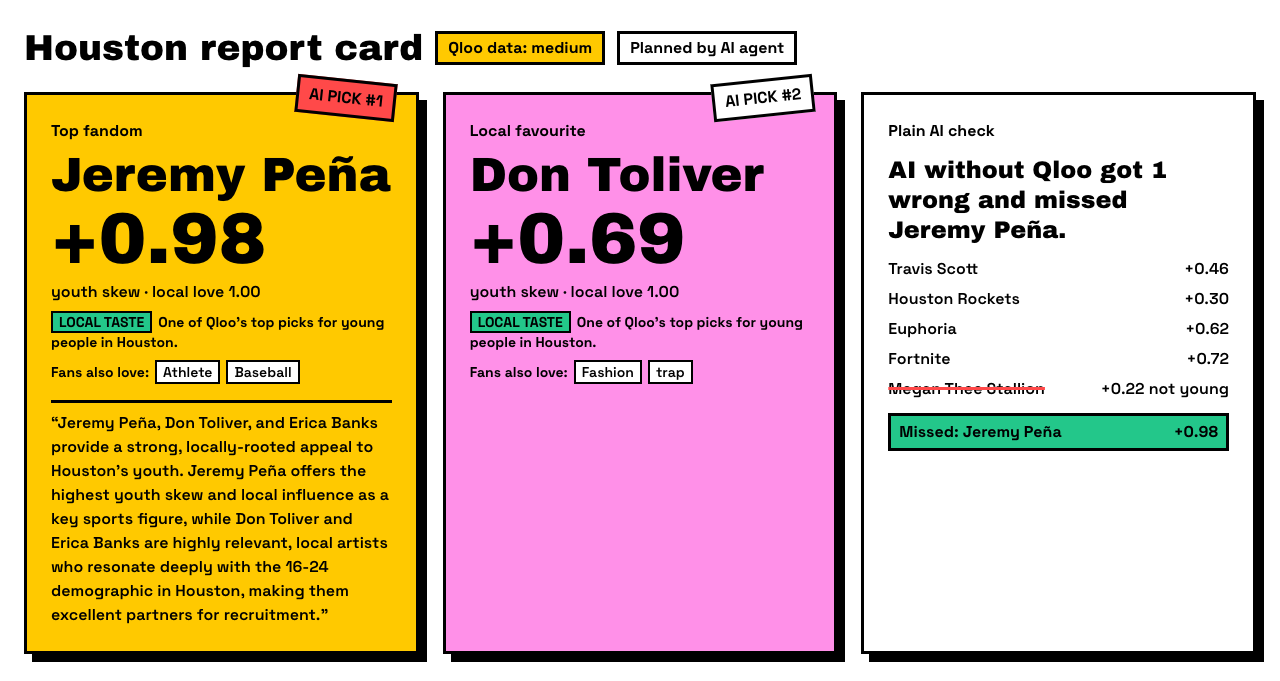
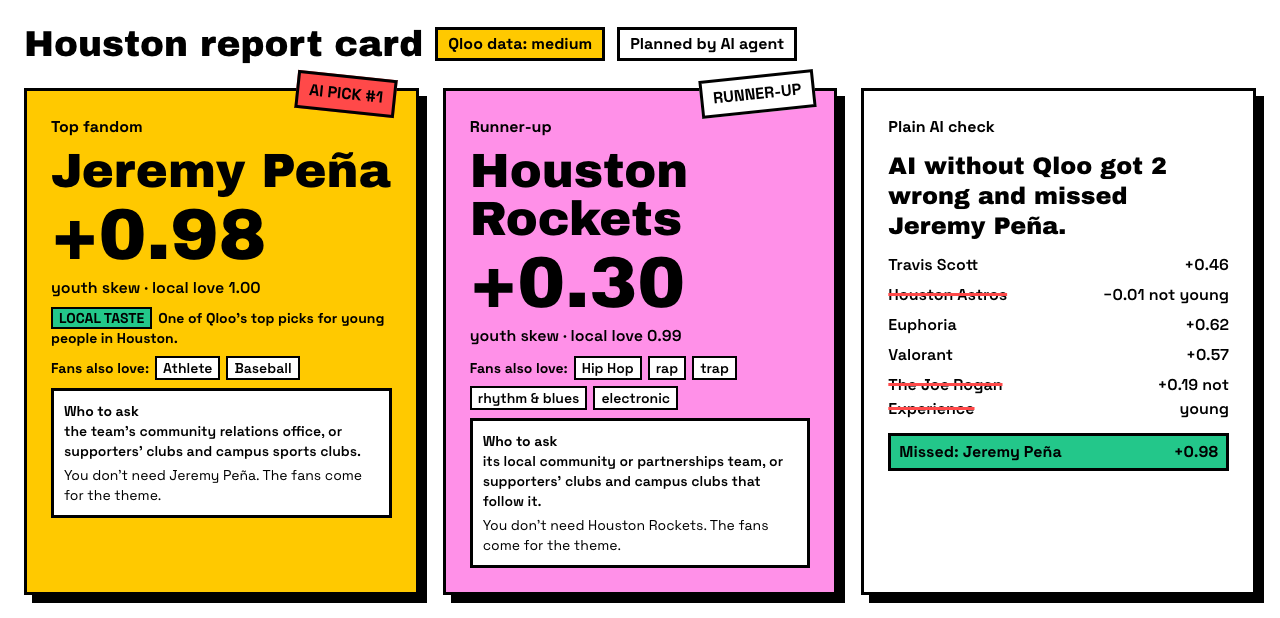
fix: skip kids', medical and appointment-only venues; re-check mistyped plain-AI picks
A live Houston run listed Chuck E. Cheese (genre "pizza", kids only in its
tags), an orthopedic hospital and a "By Appointment Only" cafe for flyers.
Plain AI's "Houston Astros", typed as a videogame, matched "Astro's Ace XR"
and showed no Qloo data; misses are now retried untyped.

New Houston example (Jeremy Peña leads; the fit check holds back Travis
Scott), with screenshots and docs to match.

diff --git a/src/lib/engine/venues.ts b/src/lib/engine/venues.ts
@@ -7,6 +7,9 @@ const word = (alts: string) => new RegExp(`(^|_)(${alts})($|_)`);
 const UNSUITABLE = word("shooting_range|gun|gun_shop|firearms?|cigar|tobacco|smoke_shop|vape|vape_shop|hookah|cannabis|dispensary|marijuana|tattoo|piercing|casino|gambling|betting|bookmaker|adult_entertainment|strip_club|pawn|liquor|beer_store|wine_store|funeral|funeral_home|cemetery");
 const PRIVATE = word("hotel|motel|apartment|condominium|residential|trailer_park|mobile_home_park|rv_park");
 const CHILDREN = word("elementary_school|middle_school|primary_school|preschool|kindergarten|day_care_center|daycare|child_care|child_care_agency|nursery_school|nursery|children's|childrens|children|kids?|playground"); // too young to donate (live: a children's museum ranked as a host)
+const KIDS_TAG = /^(child(ren)?'?s (amusement center|museum|play ?area|theat(er|re))|(indoor )?playground)$/i; // Qloo files Chuck E. Cheese under "pizza" (live Houston run)
+const MEDICAL = word("hospital|clinic|medical_center|medical_clinic|urgent_care|emergency_room"); // patients, not a fan crowd (live: an orthopedic hospital listed for flyers)
+const BY_APPOINTMENT = /\bby appointment only\b/i; // by name (live: "Honey Art Cafe [By Appointment Only - Book Online]")
 const NOT_HOST = word("dog_park");
 const PERSONAL_CARE = word("spa|day_spa|med_spa|nail_salon|massage|skin_care|waxing"); // appointment-only; barbershops stay, they're where people talk
 const IN_HOTEL = /\b(hotel|resort|motel)\b/i; // by name: Qloo can leave a hotel spa with no genre (live Houston run)
@@ -22,8 +25,10 @@ export function classifyVenue(p: QlooPlace, date?: string): { role: "host" | "pr
   const genre = (p.genre ?? "").toLowerCase();
   if (UNSUITABLE.test(genre)) return { role: "skip", reasons: ["Not suitable for a youth health campaign"] };
   if (PRIVATE.test(genre)) return { role: "skip", reasons: ["Not a public hangout"] };
-  if (CHILDREN.test(genre)) return { role: "skip", reasons: ["Venue for young children"] };
+  if (CHILDREN.test(genre) || p.tags.some((t) => KIDS_TAG.test(t.trim()))) return { role: "skip", reasons: ["Venue for young children"] };
+  if (MEDICAL.test(genre)) return { role: "skip", reasons: ["Hospital or clinic"] };
   if (IN_HOTEL.test(p.name)) return { role: "skip", reasons: ["Inside a hotel or resort"] };
+  if (BY_APPOINTMENT.test(p.name)) return { role: "skip", reasons: ["Appointment only"] };
   if (PERSONAL_CARE.test(genre) || (!HOST.test(genre) && p.tags.some((t) => SPA_TAG.test(t.trim())))) return { role: "skip", reasons: ["Appointment-only personal care"] };
   const reasons: string[] = [];
   if (p.tags.some((t) => /18\s*24/.test(t))) reasons.push("Young crowd (18–24)");

diff --git a/tests/lib/engine/venues.test.ts b/tests/lib/engine/venues.test.ts
@@ -28,6 +28,19 @@ describe("classifyVenue", () => {
     expect(classifyVenue(P({ name: "Glow Day Spa", tags: ["Spa", "Appointments recommended"] }))).toEqual({ role: "skip", reasons: ["Appointment-only personal care"] });
     expect(classifyVenue(P({ name: "Polished", genre: "nail_salon" })).role).toBe("skip");
     expect(classifyVenue(P({ name: "Downtown YMCA", genre: "gym", tags: ["Spa", "Pool"] })).role).toBe("host"); // a gym with a spa still hosts
+    // Live Houston run: an art cafe named "[By Appointment Only - Book Online]" was listed for flyers
+    expect(classifyVenue(P({ name: "Honey Art Cafe [By Appointment Only - Book Online]", genre: "art_cafe", tags: ["18 24"] }))).toEqual({ role: "skip", reasons: ["Appointment only"] });
+  });
+  it("skips kids' venues Qloo files under another genre", () => {
+    // Live Houston run: Chuck E. Cheese has genre "pizza" and only a tag says it is for children
+    const v = classifyVenue(P({ name: "Chuck E. Cheese", genre: "pizza", tags: ["Family entertainment", "Childrens amusement center", "18 24"] }));
+    expect(v).toEqual({ role: "skip", reasons: ["Venue for young children"] });
+    expect(classifyVenue(P({ name: "Joe's Pizza", genre: "pizza", tags: ["Good for kids"] })).role).toBe("promote"); // family-friendly is fine
+  });
+  it("skips hospitals and clinics: patients, not a fan crowd", () => {
+    // Live Houston run: Texas Orthopedic Hospital (genre orthopedic_clinic) was listed for flyers
+    for (const g of ["orthopedic_clinic", "hospital", "general_hospital", "medical_center", "urgent_care_center", "dental_clinic"])
+      expect(classifyVenue(P({ genre: g })), g).toEqual({ role: "skip", reasons: ["Hospital or clinic"] });
   });
   it("flags a venue that is closed on the drive day", () => {
     const v = classifyVenue(P({ genre: "gym", hours: { saturday: [{ opens: null, closes: null, closed: true }] } }), "2026-11-14");

diff --git a/src/lib/agent/plainAi.ts b/src/lib/agent/plainAi.ts
@@ -14,6 +14,18 @@ export async function runPlainAi(a: { input: PlanInput; city: CityInfo; tools: T
   const picks = r.output.picks.filter((p) => p.name.trim()).slice(0, 5).map((p) => ({ ...p, name: clamp(p.name, 60), why: clamp(p.why, 200) }));
   const resolved = await a.tools.findAndConfirm(picks.map((p) => ({ name: p.name, type: p.type })));
   const ages = await a.tools.fanAge(resolved.filter((x) => x.status === "ok").map((x) => x.entityId!));
+  // The model can give a pick the wrong type (live: the Houston Astros as a videogame matched "Astro's Ace XR"): retry those untyped, so plain AI is judged on what it meant
+  const missed = resolved.map((r, i) => i).filter((i) => resolved[i].status !== "ok" || !ages.get(resolved[i].entityId!));
+  const { refs } = await a.tools.typeNames(missed.map((i) => picks[i].name), `Re-checking ${missed.length === 1 ? "1 plain-AI pick" : `${missed.length} plain-AI picks`} Qloo couldn't match as typed`);
+  const retyped = refs.filter((r) => r.type !== picks.find((p) => p.name === r.name)?.type);
+  if (retyped.length) {
+    const again = await a.tools.findAndConfirm(retyped);
+    const moreAges = await a.tools.fanAge(again.filter((x) => x.status === "ok").map((x) => x.entityId!));
+    again.forEach((r) => {
+      const i = missed.find((j) => picks[j].name === r.name);
+      if (i !== undefined && r.status === "ok" && moreAges.get(r.entityId!)) { resolved[i] = r; ages.set(r.entityId!, moreAges.get(r.entityId!)!); }
+    });
+  }
   return picks.map((p, i) => {
     const res = resolved[i];
     const d = res.status === "ok" ? ages.get(res.entityId!) : null;

diff --git a/src/lib/engine/tools.ts b/src/lib/engine/tools.ts
@@ -71,7 +71,7 @@ export function createTools(api: QlooApi, emit: (e: ToolEvent) => void = () => {
   }
 
   async function findAndConfirm(refs: NameRef[]): Promise<Resolved[]> {
-    emit({ tool: "find_and_confirm", message: `Looking up ${refs.length} names in Qloo and confirming each match` });
+    emit({ tool: "find_and_confirm", message: `Looking up ${refs.length === 1 ? "1 name" : `${refs.length} names`} in Qloo and confirming each match` });
     return Promise.all(refs.map(resolveOne));
   }
 
@@ -242,9 +242,9 @@ export function createTools(api: QlooApi, emit: (e: ToolEvent) => void = () => {
       ...(e.birthPlace && sameCity(e.birthPlace, city) ? { hometown: e.birthPlace.split(",")[0].trim() } : {}) }));
   }
 
-  async function typeNames(names: string[]): Promise<{ refs: NameRef[]; unresolved: string[] }> {
+  async function typeNames(names: string[], message = `Identifying ${names.length} partner names you entered`): Promise<{ refs: NameRef[]; unresolved: string[] }> {
     if (!names.length) return { refs: [], unresolved: [] };
-    emit({ tool: "find_and_confirm", message: `Identifying ${names.length} partner names you entered` });
+    emit({ tool: "find_and_confirm", message });
     const typed = await Promise.all(names.map(async (n) => {
       const hits = (await api.search(n, undefined, 8).catch(orSoft([]))).filter((h) => PRIORITY.includes(h.type));
       const best = hits.map((h) => ({ h, m: matchConfidence(n, h.name) })).filter((x) => x.m >= MATCH_OK)

diff --git a/tests/lib/client/view.test.ts b/tests/lib/client/view.test.ts
@@ -50,7 +50,9 @@ describe("view helpers", () => {
     expect(whoToAsk({ ...P("Don Toliver", 0.69), type: "artist" }).ask).toEqual(["local fan clubs and street teams", "campus music and radio societies"]);
     expect(whoToAsk({ ...P("Euphoria", 0.62), type: "tv_show" }).ask).toEqual(["Euphoria fan communities on Reddit and Discord", "campus film and TV societies"]);
     expect(whoToAsk(P("Fortnite", 0.72)).ask).toEqual(["campus esports and gaming societies", "local gaming cafés and game stores"]);
-    expect(whoToAsk({ ...P("Glossier", 0.5), type: "brand" }).ask).toEqual(["the brand’s local store or community team", "campus clubs whose members wear or use it"]);
+    expect(whoToAsk({ ...P("Glossier", 0.5), type: "brand" }).ask).toEqual(["its local community or partnerships team", "supporters’ clubs and campus clubs that follow it"]);
+    // Live Houston run: Qloo files the Rockets as a brand whose fans also love hip hop, so the ask must still fit a team
+    expect(whoToAsk({ ...P("Houston Rockets", 0.3), type: "brand", fanTags: ["Hip Hop", "rap"] }).ask).not.toContain("the brand’s local store or community team");
     expect(whoToAsk({ ...P("Some Creator", 0.8), type: "person" }).ask).toEqual(["Some Creator fan communities on Reddit and Discord", "campus clubs that share the interest"]);
   });
 

diff --git a/tests/helpers/fakeApi.ts b/tests/helpers/fakeApi.ts
@@ -5,6 +5,7 @@ import type { Demographics, EntityType, HeatCell, QlooPlace } from "@/lib/qloo/t
 
 export type FakeData = {
   alias?: Record<string, string>; notFound?: string[]; types?: Record<string, EntityType>;
+  wrongTypeHit?: Record<string, string>; // what a search with the wrong type finds (live: "Houston Astros" as a videogame matched "Astro's Ace XR")
   demo?: Record<string, Demographics | "invalid">; cityFit?: Record<string, number>;
   heat?: Record<string, HeatCell[]>; places?: QlooPlace[]; hostPlaces?: QlooPlace[]; badCities?: string[]; authFail?: boolean;
   fanTags?: Record<string, string[]>; rawTags?: Record<string, { name: string; subtype: string }[]>; trend?: Record<string, { date: string; percentile: number }[]>; tagLookups?: string[];
@@ -22,6 +23,8 @@ export function fakeApi(d: FakeData): QlooApi {
     async search(query, type) {
       if (d.authFail) throw new QlooError("auth", 401, "bad key");
       if (d.notFound?.includes(query)) return [];
+      const hit = d.wrongTypeHit?.[query];
+      if (hit && type && type !== d.types?.[query]) return [{ entityId: id(hit), name: hit, type, popularity: 0.2 }];
       return [{ entityId: id(query), name: d.alias?.[query] ?? query, type: type ?? d.types?.[query] ?? "artist", popularity: 0.9 }];
     },
     async demographics(entityId) {

diff --git a/tests/lib/agent/run.test.ts b/tests/lib/agent/run.test.ts
@@ -56,6 +56,12 @@ describe("runPlan", () => {
     expect(plan?.engine).toBe("autopilot");
     expect(plan?.plainAi?.[0].name).toBe("Sabrina Carpenter");
   });
+  it("re-checks a plain-AI pick the model gave the wrong type", async () => {
+    // Live Houston run: plain AI typed the Astros as a videogame, matched "Astro's Ace XR" and reported no Qloo data
+    const model = new MockLanguageModelV4({ doGenerate: async () => text(JSON.stringify({ picks: [{ name: "Houston Astros", type: "videogame", why: "Local pride" }] })) as never });
+    const { plan } = await run({ ...data, types: { "Houston Astros": "brand" }, wrongTypeHit: { "Houston Astros": "Astro's Ace XR" } }, model);
+    expect(plan?.plainAi?.[0]).toMatchObject({ name: "Houston Astros", matchedName: "Houston Astros", youthSkew: 0.8 });
+  });
   it("words the skipped-names limit for one and for many", () => {
     expect(skippedNote(1)).toBe("1 name was skipped (not found, wrong match, or no audience data yet).");
     expect(skippedNote(3)).toBe("3 names were skipped (not found, wrong match, or no audience data yet).");

diff --git a/src/lib/client/view.ts b/src/lib/client/view.ts
@@ -46,7 +46,7 @@ export function whoToAsk(p: Partner): { ask: [string, string]; note: string } {
   const ask: [string, string] = sport ? ["the team’s community relations office", "supporters’ clubs and campus sports clubs"]
     : p.type === "artist" ? ["local fan clubs and street teams", "campus music and radio societies"]
     : p.type === "videogame" ? ["campus esports and gaming societies", "local gaming cafés and game stores"]
-    : p.type === "brand" ? ["the brand’s local store or community team", "campus clubs whose members wear or use it"]
+    : p.type === "brand" ? ["its local community or partnerships team", "supporters’ clubs and campus clubs that follow it"] // Qloo files teams as brands too
     : p.type === "person" || p.type === "podcast" ? [online, "campus clubs that share the interest"]
     : [online, p.type === "book" ? "campus book and writing societies" : "campus film and TV societies"];
   return { ask, note };

diff --git a/src/app/judges/page.tsx b/src/app/judges/page.tsx
@@ -10,7 +10,7 @@ const pct = (n: number, d: number) => `${Math.round((100 * n) / Math.max(1, d))}
 const minus = (x: number) => x.toFixed(2).replace("-", "−");
 
 const STEPS: [string, string, string][] = [
-  ["Watch a recorded run", "The agent's real work replays in about 8 seconds: Houston leads with Astros star Jeremy Peña and rapper Don Toliver.", "/plan?example=houston"],
+  ["Watch a recorded run", "The agent's real work replays in about 8 seconds: Houston leads with Astros star Jeremy Peña, and the fit check holds back Travis Scott.", "/plan?example=houston"],
   ["Plan any city live", "Type a city and press Plan my drives. The agent tests about 20 fandoms against Qloo in 30–90 seconds.", "/plan"],
   ["Check the evidence", "Every partner has a Qloo evidence drop-down, and the receipts drawer lists every Qloo request as a curl you can re-run.", "/plan?example=seattle"],
 ];

diff --git a/README.md b/README.md
@@ -15,7 +15,7 @@ An AI agent for blood banks and student organisers. It uses **Qloo taste data** 
 
 ### [▶ Try the live demo](https://fandrive-nu.vercel.app) · [For judges](https://fandrive-nu.vercel.app/judges) · [Watch Houston](https://fandrive-nu.vercel.app/plan?example=houston) · [Watch Mumbai](https://fandrive-nu.vercel.app/plan?example=mumbai)
 
-<img src="docs/images/hero.png" alt="FanDrive planner: 'Houston's next blood drive is a Jeremy Peña party.' with the yellow plan form" width="100%">
+<img src="docs/images/hero.png" alt="FanDrive planner: 'Houston's next blood drive is a Jeremy Peña fan day.' with the yellow plan form" width="100%">
 
 </div>
 
@@ -48,15 +48,15 @@ An AI agent for blood banks and student organisers. It uses **Qloo taste data** 
 
 ### 1 · The fandoms that bring young first-time donors
 
-The agent proposes candidates (artists, teams, shows, games, creators), and Qloo adds its own **local taste**: what young people in your city love that other cities' young people don't. Qloo scores each one on **how young its fans are**, **how much your city's young people love it** and **how concentrated its fans are**. The agent then makes its picks, and every report leads with one **local pick**: Astros star Jeremy Peña and rapper Don Toliver in Houston, Seattle native Paolo Banchero in Seattle, Cade Cunningham in Detroit.
+The agent proposes candidates (artists, teams, shows, games, creators), and Qloo adds its own **local taste**: what young people in your city love that other cities' young people don't. Qloo scores each one on **how young its fans are**, **how much your city's young people love it** and **how concentrated its fans are**. The agent then makes its picks, and every report leads with one **local pick**: Astros star Jeremy Peña in Houston, Seattle native Paolo Banchero in Seattle, Cade Cunningham in Detroit.
 
-<img src="docs/images/cards.png" alt="Houston report card: Jeremy Peña +0.98 and Don Toliver +0.69 (AI picks, local taste), and the plain-AI check, which missed them both" width="100%">
+<img src="docs/images/cards.png" alt="Houston report card: Jeremy Peña +0.98 (AI pick, local taste) and the Houston Rockets +0.30, each with who to ask, and the plain-AI check, which missed Peña" width="100%">
 
 ### 2 · Where the fans are, and where to host
 
 Qloo heatmaps reveal the neighbourhoods where each fan base beats the city's baseline. FanDrive finds venues nearby and sorts them into **host here** (schools, colleges, halls, gyms, places of worship) and **flyers only** (cafés, restaurants, and bars, which never host).
 
-<img src="docs/images/map.png" alt="Map of Houston with Jeremy Peña and Don Toliver fan zones and venue pins, next to a 'Where to host' list" width="100%">
+<img src="docs/images/map.png" alt="Map of Houston with Jeremy Peña and Houston Rockets fan zones and venue pins, next to a 'Where to host' list" width="100%">
 
 ### 3 · The agent shows its work, and the campaign is ready to print
 
@@ -86,7 +86,7 @@ The same model is asked for partners **without Qloo**, then every pick is fact-c
 
 | City | Plain AI suggested | What Qloo says |
 |---|---|---|
-| **Houston** | Travis Scott, Houston Rockets, Euphoria, Fortnite, Megan Thee Stallion | Megan Thee Stallion isn't young-skewing (+0.22). It **missed Houston's local picks**, Astros star Jeremy Peña (+0.98) and rapper Don Toliver (+0.69). |
+| **Houston** | Travis Scott, Houston Astros, Euphoria, Valorant, The Joe Rogan Experience | 2 are **not young** (Houston Astros −0.01, The Joe Rogan Experience +0.19). It **missed Houston's local pick**, Astros star Jeremy Peña (+0.98). FanDrive's AI fit check also held back Travis Scott (reported controversy). |
 | **Seattle** | Seattle Kraken, Minecraft, Macklemore, The Last of Us, Hasan Piker | 2 skew **older** (Macklemore −0.01, The Last of Us −0.05). It **missed Paolo Banchero (+0.99)**, the Seattle-born NBA star. |
 | **Detroit** | Eminem, Detroit Lions, Fortnite, Big Sean, Stranger Things | 3 are **not young** (−0.06, +0.00, +0.05). It **missed Cade Cunningham (+0.87)**, the Pistons star who is Detroit's local pick. |
 | **Mumbai** | Karan Aujla, Mumbai Indians, Minecraft, BeerBiceps, Stranger Things | 2 skew **older** (−0.20, −0.07), 1 has no data. It missed Lost Stories, the Indian electronic duo young Mumbaikars over-index on. |

diff --git a/docs/video-script.md b/docs/video-script.md
@@ -7,8 +7,8 @@ Optional (the rules don't require a video), but judges skim, and a short video c
 | 0:00–0:12 | Home page hero | "The Red Cross is in its second-ever national blood crisis, and donors under 30 are down about 39% since 2015. Blood banks already team up with fandoms, but they pick partners by gut feel." |
 | 0:12–0:22 | `/method`, Metallica card | "Metallica's drives recruited just 16% first-timers. On Qloo, its fans skew 45 to 54. Famous isn't the same as young." |
 | 0:22–0:40 | Click **Watch Houston**; the agent steps stream in | "FanDrive is an AI agent. It proposes fandoms, and Qloo adds what young Houstonians love that other cities don't. Then it scores each one: how young the fans are, how loved locally, how concentrated." |
-| 0:40–0:55 | Report card: Jeremy Peña +0.98, Don Toliver, LOCAL TASTE chip | "It picks Astros star Jeremy Peña and Houston rapper Don Toliver, both local, both young-skewing." |
-| 0:55–1:05 | Plain AI check panel | "Ask the same AI without Qloo, and it suggests Megan Thee Stallion, whose fans aren't especially young, and misses both." |
+| 0:40–0:55 | Report card: Jeremy Peña +0.98, LOCAL TASTE chip, Who to ask box | "It picks Astros star Jeremy Peña, a local fandom that skews very young. And it tells you who to ask: the team's community office, or supporters' clubs. You don't need Peña himself; the fans come for the theme." |
+| 0:55–1:05 | Plain AI check panel | "Ask the same AI without Qloo, and it suggests the Astros and Joe Rogan's podcast, whose fans aren't especially young, and misses Peña. FanDrive's fit check had already held Travis Scott back over a reported controversy." |
 | 1:05–1:20 | Map and "Where to host" | "Qloo's heatmap shows where those fans live, and FanDrive finds venues nearby that can host: schools, halls, gyms. Bars only get flyers." |
 | 1:20–1:32 | Poster and campaign kit | "It writes the poster, social posts and a pitch email, and never invents a number or implies an endorsement." |
 | 1:32–1:45 | Receipts drawer, then `/method` eval cards | "Every Qloo request is a receipt you can re-run. Across 20 cities, 31% of plain-AI picks had fans who skew older. FanDrive's picks averaged +0.75 youth skew, versus +0.25." |

diff --git a/docs/devpost.md b/docs/devpost.md
@@ -28,7 +28,7 @@ You type a city. An AI agent then:
 
 1. **Finds candidates.** It proposes artists, teams, shows, games and creators. Qloo adds its own **local taste**: the artists and athletes young people in that city over-index on compared with 10 reference cities.
 2. **Scores each one with Qloo.** It measures how young the fans are, how much the city's young people love it, and how concentrated its fans are (heatmap lift over a baseline of mass brands).
-3. **Picks the partners.** Older-skewing fan bases can't outrank young ones, and every report leads with one local pick. In Houston it chose Astros star Jeremy Peña (+0.98) and rapper Don Toliver; in Seattle, Seattle-born Paolo Banchero (+0.99); in Detroit, Cade Cunningham (+0.87).
+3. **Picks the partners.** Older-skewing fan bases can't outrank young ones, and every report leads with one local pick. In Houston it chose Astros star Jeremy Peña (+0.98); in Seattle, Seattle-born Paolo Banchero (+0.99); in Detroit, Cade Cunningham (+0.87).
 4. **Maps the fans and finds venues.** It shows the neighbourhoods where those fans live and venues nearby that can host (schools, colleges, halls, gyms, places of worship). Bars only get flyers.
 5. **Writes the campaign.** A poster, three social posts, a friend invite and a partnership pitch email, all guarded against invented numbers and fake endorsements.
 6. **Checks itself.** The same model is asked *without* Qloo, and every one of its picks is fact-checked against Qloo's age data.
